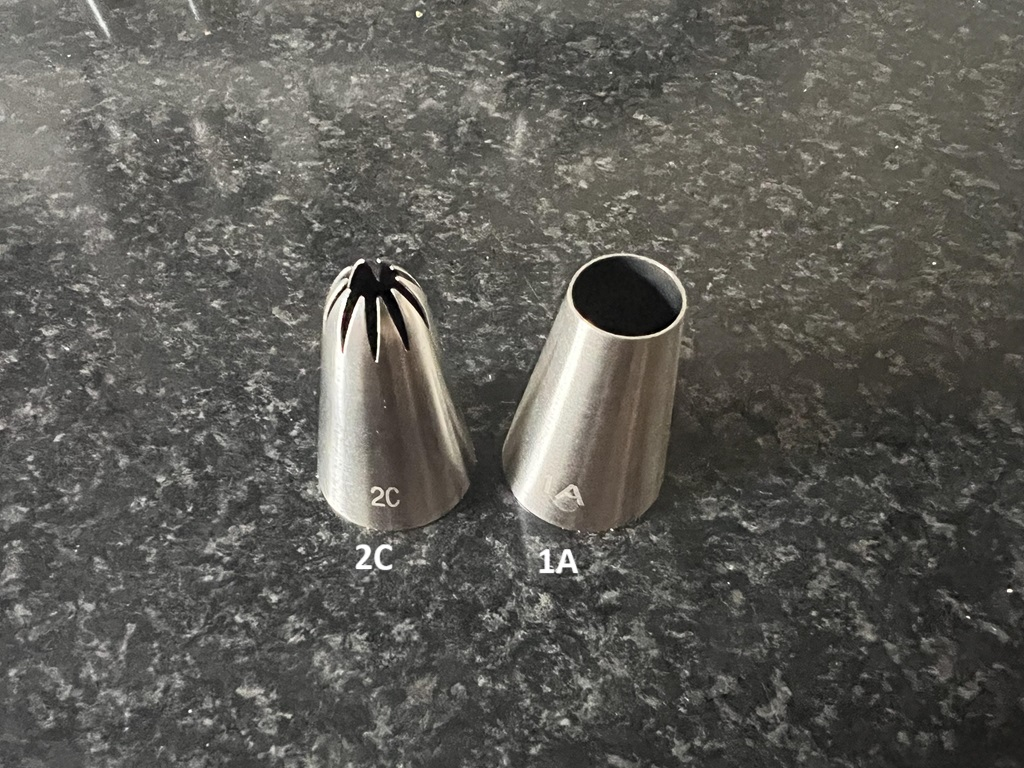
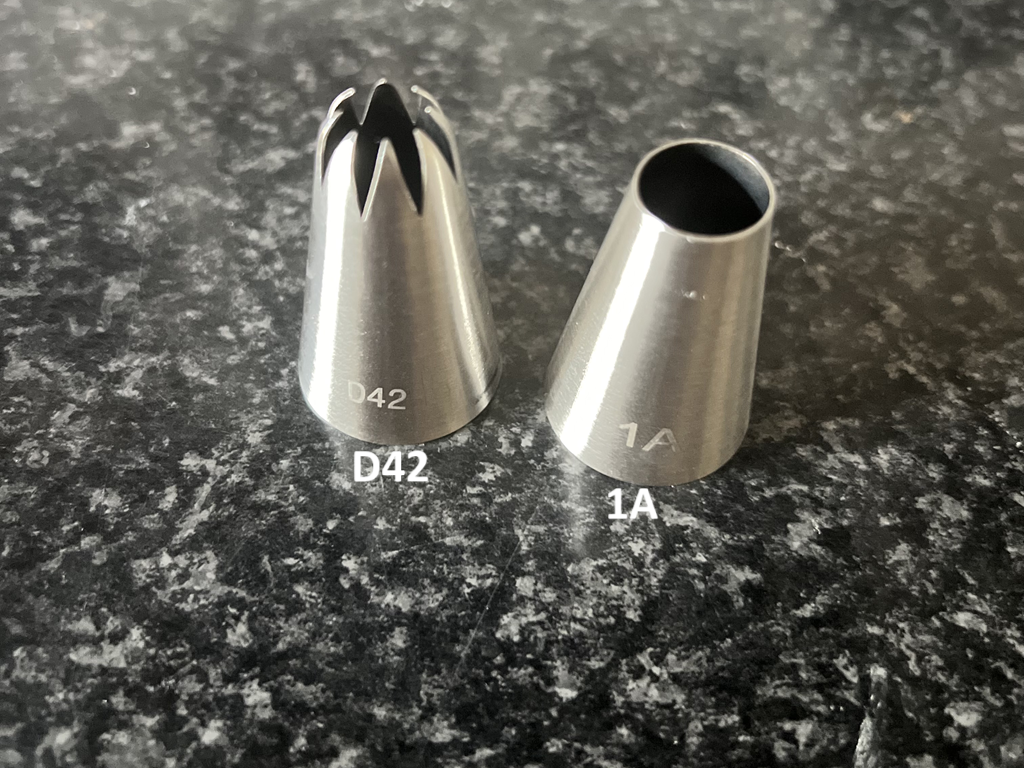
New pictures added to "suspiros" compomponent

diff --git a/src/Components/Sweet_Components/Suspiros.jsx b/src/Components/Sweet_Components/Suspiros.jsx
@@ -8,12 +8,12 @@ export default function Suspiros() {
             <ul>
                 <li>
                     <h2>Ingredientes</h2>
-                    <h3>&#45;&#62; para aproxmadamente 35 suspiros</h3>
+                    <h3>&#45;&#62; para aproximadamente 35 suspiros</h3>
                 </li>
                 <ul>
                     <li>2x claras de ovos M &#40;aproximadamente 67/68gr&#41;</li>
-                    <li>60gr de açúcar refinado &#40;ou acúcar em pó&#41;</li>
-                    <li>1 colher sobremesa de sumo de limão &#40;não notei a diferença não usando&#41;</li>
+                    <li>100gr de açúcar refinado &#40;ou acúcar em pó&#41;</li>
+                    <li>sumo de limão &#40;não notei a diferença não usando&#41;</li>
                     <li>Corantes em gel ou em pó &#40;opcional&#41;</li>
                     <li>Aromas &#40;opcional&#41;</li>
                 </ul>
@@ -25,7 +25,8 @@ export default function Suspiros() {
                     <h2>Preparação</h2>
                 </li>
                 <ol>
-                    <li>Começar a bater as claras a uma velocidade baixa até começar a fazer espuma. Adicionar metade do açùcar e continuar a bater na velocidade média.</li>
+                    <li>Começar a bater as claras a uma velocidade baixa até começar a fazer espuma. Adicionar um terço do açùcar e continuar a bater na velocidade média-baixa.</li>
+                    <li>Quando o açúcar já estiver completamente dissolvido, acrescsentar mais um terço e continuar a bater em velocidade média </li>
                     <li>Quando as claras já estiverem batidas, mas ainda "líquidas", adicionar o restante açucar assim como o sumo de limâo.</li>
                     <li>Continuar a bater as claras e quando já estiverem firmes adicionar o aroma, se se desejar algum, e continuar a bater até obter o ponto de bico de pássaro.
                         <br />
@@ -37,10 +38,10 @@ export default function Suspiros() {
                     <li>Colocar um tapete de silicone ou papel vegetal num tabuleiro e, com o saco de pasteleiro, fazer os suspiros do tamanho desejado
                         <br />Nota: deixar aproximadamente 1cm entre suspiros para que não fiquem colados uns aos outros.
                     </li>
-                    <li>Colocar no forno o&#40;s&#41; tabuleiro&#40;s&#41; a 120ºC &#40;com ventoinha&#41; por aproximadamente 50min. Deixar a porta do forno entre-aberto usando uma colher de pau, por exemplo
-                        <br />Nota: eu dexei 50 min, mas os ultimos 5 min foi com a porta do forno fechada.
+                    <li>Colocar no forno o&#40;s&#41; tabuleiro&#40;s&#41; a 120ºC &#40;com ventoinha&#41; por aproximadamente 90 min. Deixar a porta do forno entre-aberto usando uma colher de pau, por exemplo
+                        <br />Nota: eu dexei 90 min, mas os ultimos 10 min foi com a porta do forno fechada.
                     </li>
-                    <li>Desligar o forno após os 50min e deixar arrefecer os suspiros dentro do forno desligado.</li>
+                    <li>Desligar o forno após o tempo terminar e deixar arrefecer os suspiros dentro do forno desligado.</li>
                     <li>Quando já estiverem frios, colocar os suspiros dentro de uma caixa para que não absorvam humidade</li>
                 </ol>
             </ul>
@@ -61,18 +62,18 @@ export default function Suspiros() {
                 </Card>
                 <Card>
                     <CardContent>
-                        <Link href="./pictures/bicos2.png" rel="noopener noreferrer">
-                            <img className="listPictureComponents" src=".\pictures\bicos2.png" alt="bicos de pasteleiro" />
-                        </Link>
-                        <h2>Bicos D66 e 2F</h2>
-                    </CardContent>
-                </Card>
-                <Card>
-                    <CardContent>
                         <Link href="./pictures/suspiros1.png" rel="noopener noreferrer">
                             <img className="listPictureComponents" src=".\pictures\suspiros1.png" alt="suspiros" />
                         </Link>
                         <h2>Suspiros 2C e 1A</h2>
+                    </CardContent>
+                </Card>
+                <Card>
+                    <CardContent>
+                        <Link href="./pictures/bicos2.png" rel="noopener noreferrer">
+                            <img className="listPictureComponents" src=".\pictures\bicos2.png" alt="bicos de pasteleiro" />
+                        </Link>
+                        <h2>Bicos D66 e 2F</h2>
                     </CardContent>
                 </Card>
                 <Card>
@@ -83,8 +84,23 @@ export default function Suspiros() {
                         <h2>Suspiros D66 e 2F</h2>
                     </CardContent>
                 </Card>
+                <Card>
+                    <CardContent>
+                        <Link href="./pictures/bicos3.png" rel="noopener noreferrer">
+                            <img className="listPictureComponents" src=".\pictures\bicos3.png" alt="bicos de pasteleiro" />
+                        </Link>
+                        <h2>Bicos 17 e 18</h2>
+                    </CardContent>
+                </Card>
+                <Card>
+                    <CardContent>
+                        <Link href="./pictures/suspiros3.png" rel="noopener noreferrer">
+                            <img className="listPictureComponents" src=".\pictures\suspiros3.png" alt="suspiros" />
+                        </Link>
+                        <h2>Suspiros 17 e 18</h2>
+                    </CardContent>
+                </Card>
             </div>
-
         </div>
     )
 };
